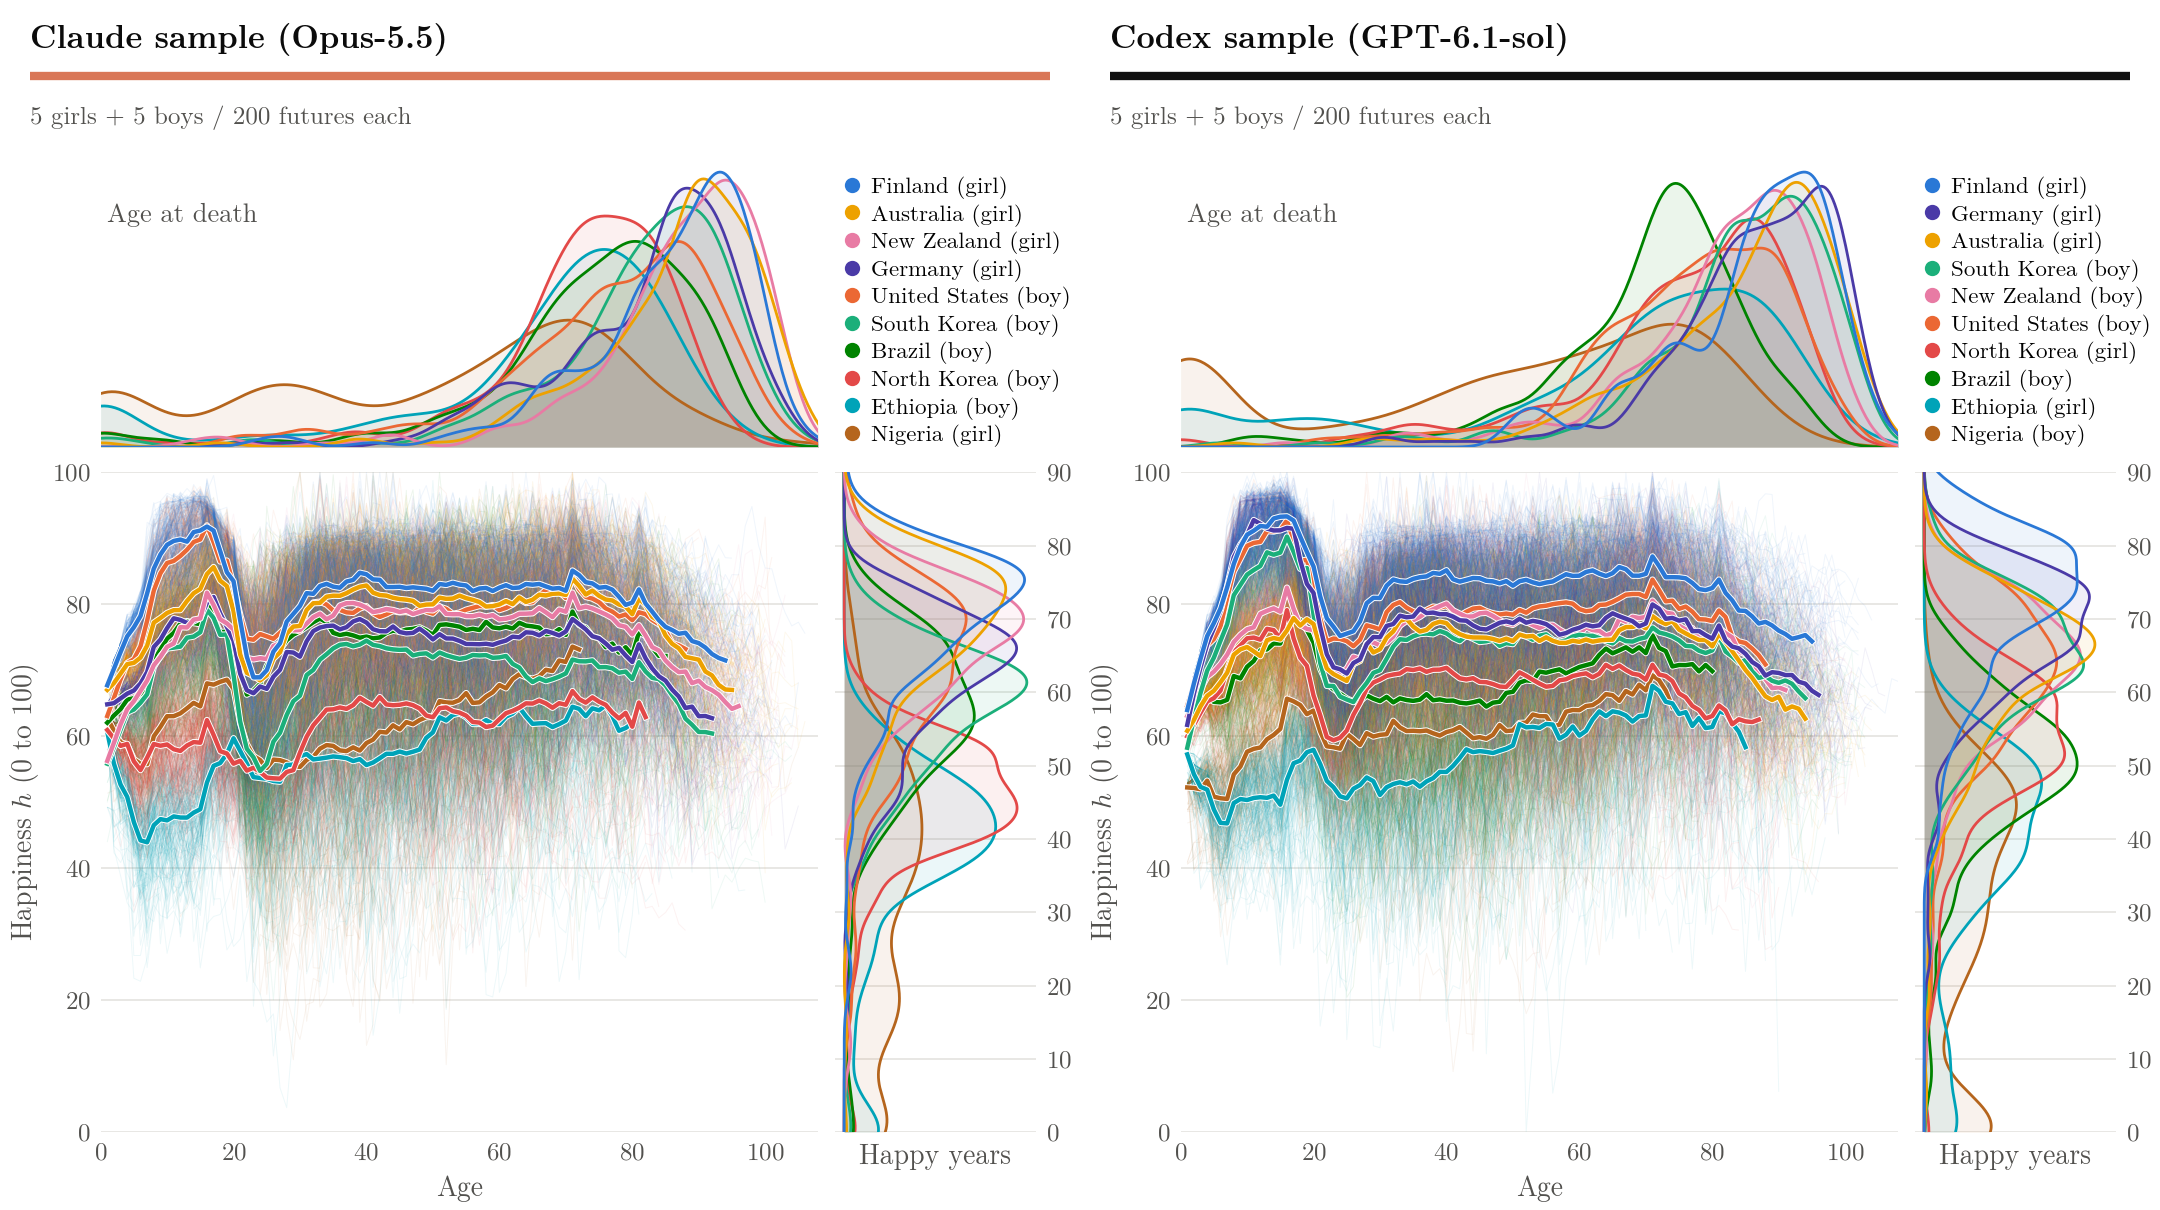
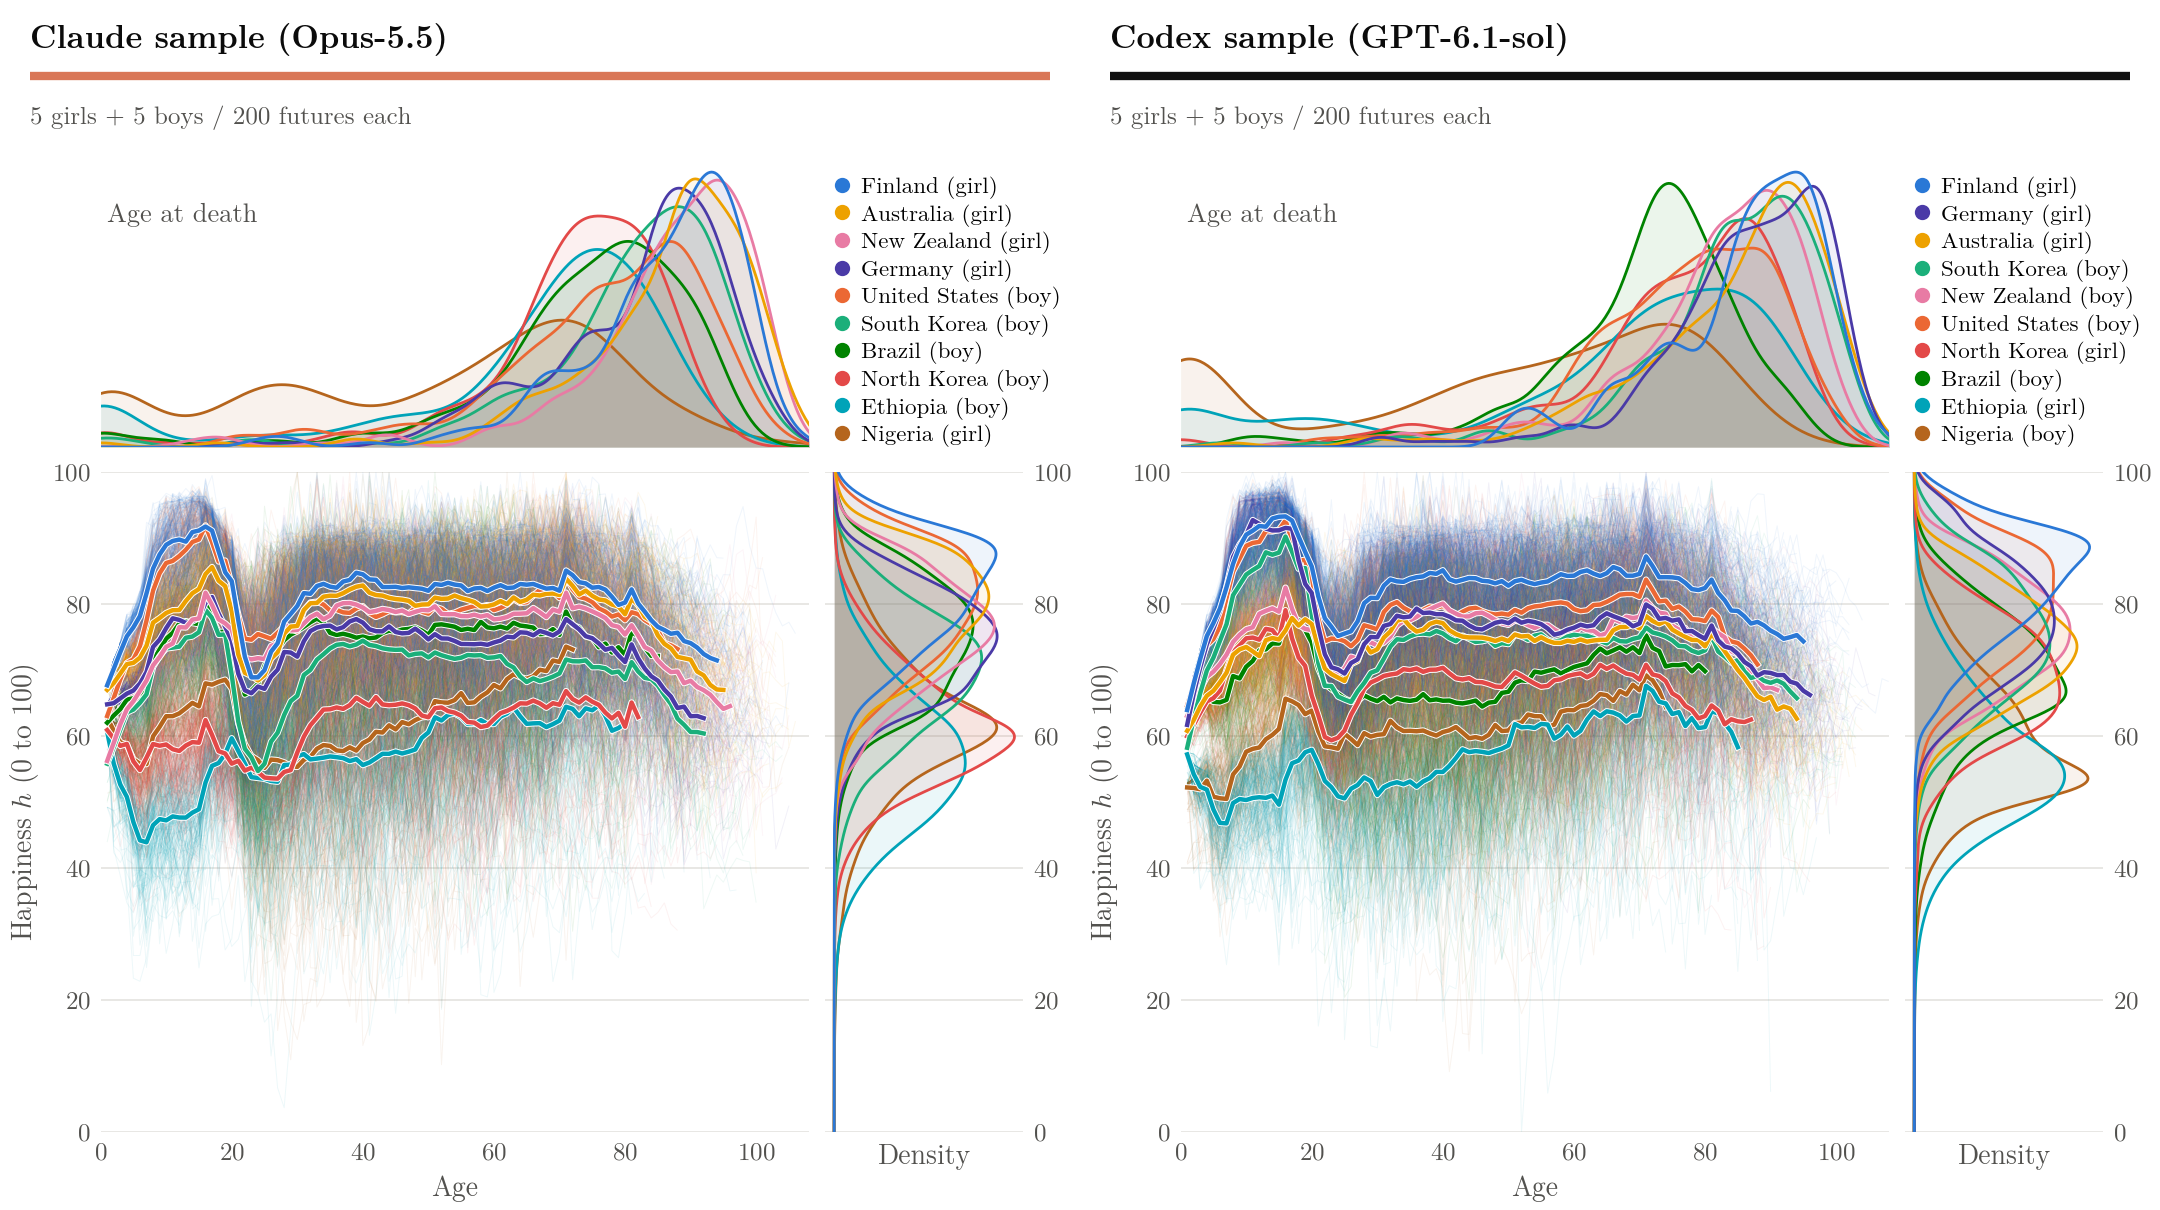
Show happiness scores beside the life paths

diff --git a/testbed/_posts/2026-10-27-nature-vs-nurture.html b/testbed/_posts/2026-10-27-nature-vs-nurture.html
@@ -335,9 +335,11 @@ table.nvn tr.ref td { background: #f4f4f2; }  /* the game default, the row every
     Each sample contains five girls and five boys. To reach this balance, the selection replaces the fewest examples. Replacements use the other sex and stay nearest the same country’s median; countries needing the smallest added distance change first.
     <br/><br/>
     Each selected birth then follows 200 futures with different events after birth. These illustrative futures are outside the 300,000-life main total.
+    <br/><br/>
+    On the right, wider parts of a curve mark more common birthday happiness scores. Each life with recorded scores has equal total weight. Lives ending before the first birthday have no recorded score and do not enter that panel.
     <figure data-runs="claude codex" data-study="expanded" id="nvn-comparison-0">
-<img alt="Ten selected births and their futures in both samples" onerror="handle_image_error(this)" src="/img/nature-vs-nurture/nature-vs-nurture-0.png" width="100%"/>
-<figcaption>Five girls and five boys per sample, each run through 200 futures under the game default. Thin lines show individual lives and thick lines show happiness among those still alive, stopping below 50 survivors. Both samples use the same countries and balanced median-based selection rule.</figcaption>
+<img alt="Ten selected births with birthday happiness distributions in both samples" onerror="handle_image_error(this)" src="/img/nature-vs-nurture/nature-vs-nurture-0.png" width="100%"/>
+<figcaption>Five girls and five boys per sample, each with 200 futures under the game default. Thin lines show individual lives; thick lines show mean happiness while at least 50 lives remain. The top panel shows age at death. The right panel shows birthday happiness on the same 0–100 scale as the central plot.</figcaption>
 </figure>
     Family, sex and talent differ between the selected babies as well as country. Their differences cannot be attributed to country alone.
 </div><br/><br/>
